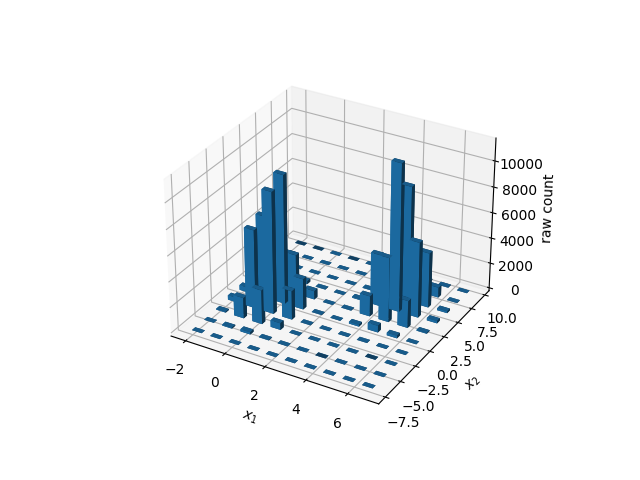
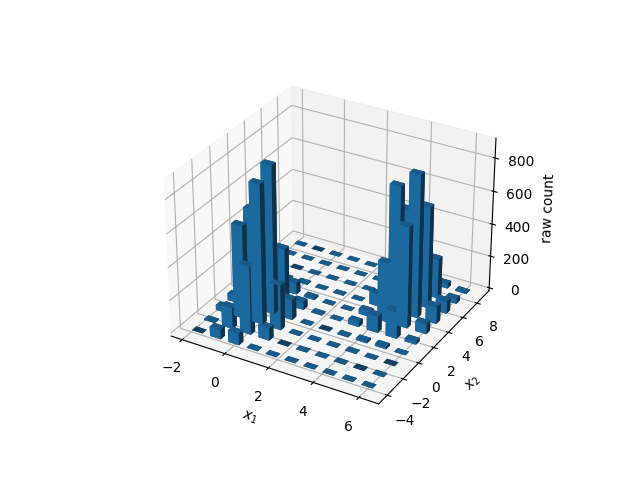
Some modifications

diff --git a/Final_individual/problem1.py b/Final_individual/problem1.py
@@ -52,6 +52,10 @@ def metropolis(N,init1,init2):
                 x1samples[filled]=x1curr
                 x2samples[filled]=x2curr
                 filled+=1
+            else:
+                x1samples[filled]=x1curr
+                x2samples[filled]=x2curr
+                filled+=1
     return x1samples,x2samples
 
 
@@ -94,13 +98,14 @@ def plot2d():
 
 if __name__=="__main__":
     # plot2d()
-    x1,x2=metropolis(100000,4,4)
-    n = np.linspace(0,100000,num=100000)
-    fig = plt.figure()
-    plt.plot(n,x1)
-    plt.title("Change of x1 over sampling time")
-    plt.ylabel(r'x_1')
-    plt.savefig("x1.png")
+    x1,x2=metropolis(10000,0,0)
+    # n = np.linspace(0,100000,num=100000)
+    # fig = plt.figure()
+    # plt.plot(n,x1)
+    # plt.title("Change of x1 over sampling time")
+    # plt.ylabel(r'x_1')
+    # plt.savefig("x1.png")
+    print ("The mean value of (x1,x2) is ", (np.mean(x1), np.mean(x2)))
     # 3D histogram modified from https://matplotlib.org/stable/gallery/mplot3d/hist3d.html
     fig = plt.figure()
     ax = fig.add_subplot(projection='3d')
